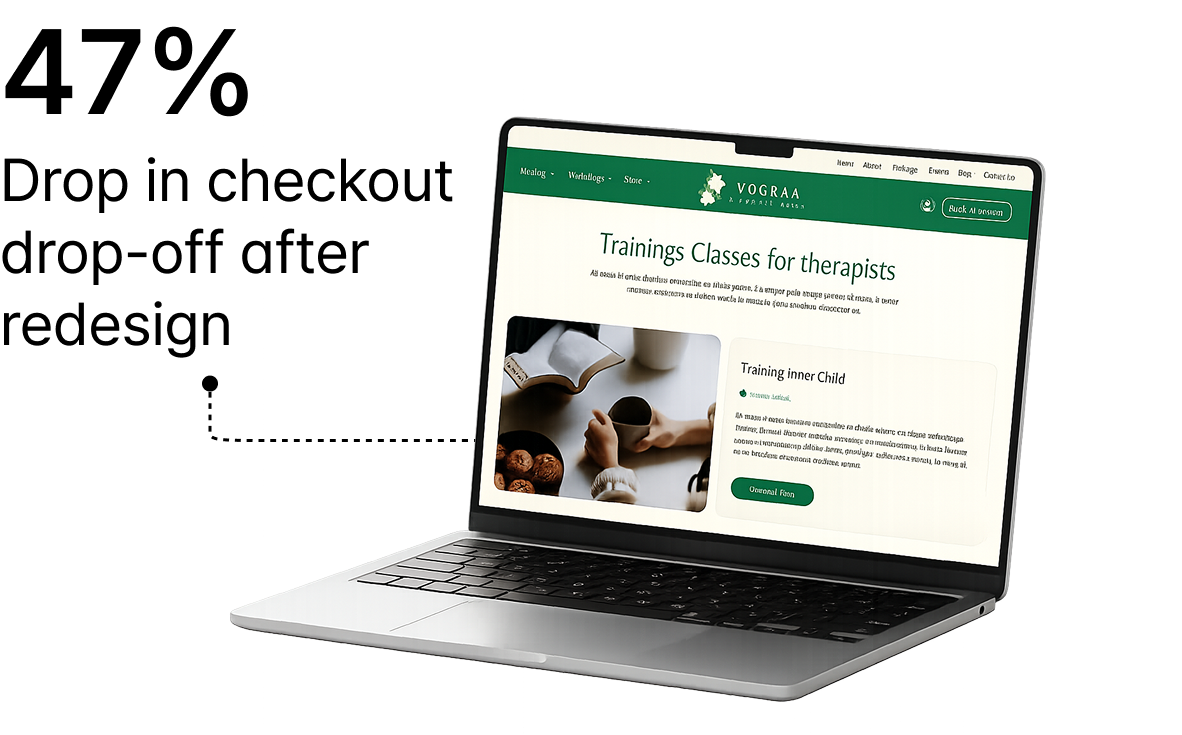
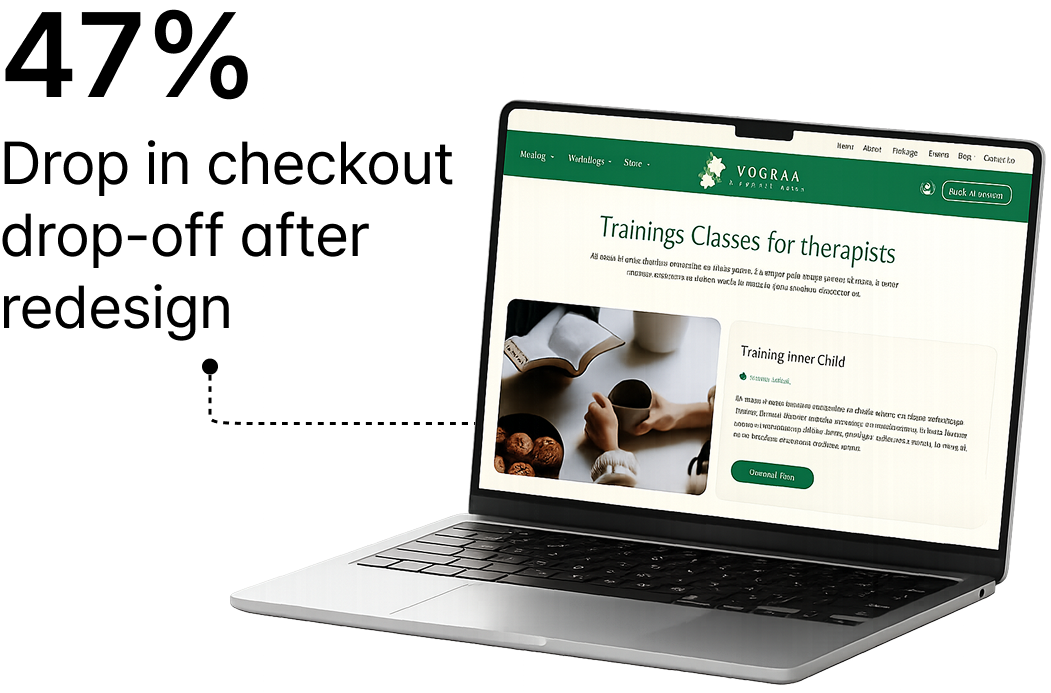
changes

diff --git a/src/app/(frontend)/uiux/_components/ProjectsGrid/ProjectsGrid.jsx b/src/app/(frontend)/uiux/_components/ProjectsGrid/ProjectsGrid.jsx
@@ -41,8 +41,8 @@ const projects = [
     src: one,
     title: 'Surge',
     // tags: 'Branding | Food',
-    tags: 'Checkout completion up from 31% to 50%',
-    description: 'UI/UX Design and Mobile Application Development crafted for White Mantis Dubai.',
+    tags: 'Order completion rate reached 50% within the first month of launch',
+    description: 'Crafting a seamless coffee-first journey that blends discovery, rewards, and everyday convenience.',
     popupImages: [
       { type: 'landscape', src: '/assets/images/projects/royal/first.png' },
       { type: 'double',    src: ['/assets/images/projects/royal/first22.webp', '/assets/images/projects/royal/first33.webp'] },
@@ -51,24 +51,11 @@ const projects = [
     ],
   },
   {
-    src: two,
-    title: 'Al-Huzaifa',
-    // tags: 'Branding | Lifestyle',
-    tags: 'Time-to-first-value cut from 12 min-5 min',
-    description: 'UI/UX Design and Mobile Application Development crafted for White Mantis Dubai.',
-    popupImages: [
-      { type: 'landscape', src: '/assets/images/projects/magic/secondqq.webp' },
-      { type: 'double',    src: ['/assets/images/projects/magic/secondqqq.webp', '/assets/images/projects/magic/secondqqqq.webp'] },
-      { type: 'double',    src: ['/assets/images/projects/magic/secondq.webp', '/assets/images/projects/magic/secondqqqqq.webp'] },
-      { type: 'landscape', src: '/assets/images/projects/magic/secondfinalq.webp' },
-    ],
-  },
-  {
     src: three,
     title: 'Plan B',
     // tags: 'Branding | Hospitality',
-    tags: '3× more form submissions in week one',
-    description: 'UI/UX Design and Mobile Application Development crafted for White Mantis Dubai.',
+    tags: 'Partner deals worth AED 2M+ traced back to the new site in 3 months',
+    description: 'Transforming bold ideas into engaging digital journeys designed to inspire action and connection.',
     popupImages: [
       { type: 'landscape', src: '/assets/images/projects/neelam/thirdIMG1.webp' },
       { type: 'double',    src: ['/assets/images/projects/neelam/thirdIMG2.webp', '/assets/images/projects/neelam/thirdIMG3.webp'] },
@@ -77,11 +64,24 @@ const projects = [
     ],
   },
   {
+    src: two,
+    title: 'Al-Huzaifa',
+    // tags: 'Branding | Lifestyle',
+    tags: 'Now the #1 source of new client inquiries, ahead of referrals',
+    description: 'Elevating luxury interiors through an immersive digital experience that reflects timeless sophistication.',
+    popupImages: [
+      { type: 'landscape', src: '/assets/images/projects/magic/secondqq.webp' },
+      { type: 'double',    src: ['/assets/images/projects/magic/secondqqq.webp', '/assets/images/projects/magic/secondqqqq.webp'] },
+      { type: 'double',    src: ['/assets/images/projects/magic/secondq.webp', '/assets/images/projects/magic/secondqqqqq.webp'] },
+      { type: 'landscape', src: '/assets/images/projects/magic/secondfinalq.webp' },
+    ],
+  },
+  {
     src: four,
-    title: 'ADND',
+    title: 'First Response',
     // tags: 'Branding | Education',
-    tags: '3× more form submissions in week once',
-    description: 'UI/UX Design and Mobile Application Development crafted for White Mantis Dubai.',
+    tags: 'Consultation bookings up 2x since the new homepage went live ',
+    description: 'Creating a compassionate healthcare platform that makes care accessible, trusted, and easy to navigate.',
     popupImages: [
       { type: 'landscape', src: '/assets/images/projects/pres/fourthONE.webp' },
       { type: 'double',    src: ['/assets/images/projects/pres/fourthTWO.webp', '/assets/images/projects/pres/fourthTHREE.webp'] },

diff --git a/src/app/(frontend)/uiux/_components/brands/brands.jsx b/src/app/(frontend)/uiux/_components/brands/brands.jsx
@@ -1,28 +1,12 @@
 import Image from "next/image";
 import styles from "./brands.module.css"
-import tata from "./tata.png"
-import alhuzifa from "./alhuzifa.png"
-import titan from "./titan.png"
-// import marriot from "./marriot.png"
-import marq1 from "./marqq1.png"
-import marq2 from "./marqq2.png"
-import marq3 from "./marqq3.png"
-import marq4 from "./marqq4.png"
-import marq5 from "./marqq5.png"
-import marq6 from "./marqq6.png"
-import marq7 from "./marqq7.png"
-import marq8 from "./marqq8.png"
-import marq9 from "./marqq9.png"
-import marq10 from "./marqq10.png"
 
+import tata2 from "./mono1.png"
+import marriot from "./mono2.png"
+import prestige from "./mono3.png"
+import silverCoin from "./mono4.png"
 
-import titan1 from "./titan1.png"
-import tata2 from "./tata2.png"
-import marriot from "./marriot.png"
-import prestige from "./prestige.png"
-import silverCoin from "./silverCoin.png"
-import swiggy from "./swiggy.png"
-import keshari from "./keshari.png"
+// import keshari from "./keshari.png"
 
 export default function Brand() {
     return (
@@ -38,18 +22,18 @@ export default function Brand() {
                         <span className={styles.divider} />
                         <Image src={tata2} alt="alhuzifa" />
                         <span className={styles.divider} /> */}
-                        <Image src={marriot} alt="titan" />
+                        <Image src={tata2} alt="titan" />
+                        <span className={styles.divider} />
+                        <Image src={marriot} alt="marriot" />
                         <span className={styles.divider} />
                         <Image src={prestige} alt="marriot" />
                         <span className={styles.divider} />
-                        <Image src={silverCoin} alt="marriot" />
-                        <span className={styles.divider} />
                         {/* <Image src={swiggy} alt="marriot" />
                         <span className={styles.divider} /> */}
-                         <Image src={keshari} alt="marriot" />
+                         <Image src={silverCoin} alt="marriot" />
                         {/* <span className={styles.divider} /> */}
                     </div>
-                    <div className={styles.LogoMarquee}>
+                    {/* <div className={styles.LogoMarquee}>
                         <div className={styles.LogoMarqueeTrack}>
                             <Image src={titan1} alt="titan" />
                             <Image src={tata2} alt="tata" />
@@ -66,7 +50,7 @@ export default function Brand() {
                             <Image src={swiggy} alt="swiggy" />
                             <Image src={keshari} alt="keshari" />
                         </div>
-                    </div>
+                    </div> */}
                 </div>
                 {/* <div className={styles.mid}>
                     <div className={styles.Heading}>

diff --git a/src/app/(frontend)/uiux/_components/ProjectsGrid/ProjectsGrid.module.css b/src/app/(frontend)/uiux/_components/ProjectsGrid/ProjectsGrid.module.css
@@ -186,11 +186,9 @@
   display: flex;
   justify-content: flex-end;
   padding: 0 2rem;
-  position: sticky;
+  position: absolute;
   top: 0;
-  width: 100%;
-  background-color: #fff;
-  border-radius: 2rem 2rem 0 0;
+  right: 0;
   z-index: 2;
 }
 
@@ -315,7 +313,7 @@
 .popupTwoImages .twoImage {
   width: 100%;
   height: auto;
-  border-radius: 1rem;
+  border-radius: 10px;
   object-fit: cover;
   display: block;
 }
@@ -401,7 +399,7 @@
     pointer-events: auto;
   }
   .workHeadContent {
-    gap: 5px;
+    gap: 10px;
   }
   .customCursor {
     display: none;
@@ -418,12 +416,13 @@
     pointer-events: auto;
   }
   .workInternalMain {
-    padding: 2rem 1.5rem;
+    padding: 4rem 1.5rem;
     max-width: 100%;
   }
   .popupContent p{
     font-weight:400;
-    font-size:12px;
+    font-size:16px;
+    margin-bottom:12px;
   }
   /* .workHeadContent{
     font-weight:700;
@@ -447,7 +446,6 @@
     border-radius: 1.25rem;
   }
   .workInternalHeader {
-    border-radius: 1.25rem 1.25rem 0 0;
     padding: 0 1rem;
   }
   .workHeadContent .workTitle,
@@ -464,7 +462,7 @@
   .closeButton {
     height: 2.25rem;
     width: 2.25rem;
-    margin: 0.75rem 0.5rem;
+    margin: 2rem 0.5rem;
   }
   .closeButton svg {
     width: 14px;
@@ -484,20 +482,21 @@
         row-gap: 30px;
     }
     .cardContent {
+      align-items: center;
         gap: 12px;
     }
     .card {
-        gap: 12px;
+        gap: 8px;
     }
     .cardContentleft {
-        gap: 4px;
+        gap: 2px;
     }
     .cardContentleft h3 {
         font-size: 18px;
         font-weight:500;
     }
     .cardContentleft p {
-        font-size: 14px;
+        font-size: 16px;
     }
     .cardContentleft {
         width: 80%;

diff --git a/src/app/(frontend)/uiux/_components/main/home.jsx b/src/app/(frontend)/uiux/_components/main/home.jsx
@@ -4,14 +4,11 @@ import { useEffect, useState } from "react"
 import styles from "./home.module.css"
 import ContactPopupCopy from "../ContactCopy/ContactPopupCopy"
 import Image from "next/image"
-import oil from "./oil.png"
-import icecream1 from "./icecream1.png"
 import besanFinal from "./thirdfinal.png"
 import iceCreamFinal from "./secondfinal.png"
 import oilMobile from "./firstfinal.png"
-import besan from "./besan.png"
-import besanArrow from "./besanArrow.png"
-import icecreamArrow from "./icecreamArrow.png"
+
+
 import everything from "./everything.png"
 export default function HomePage() {
     const [isOpen, setIsOpen] = useState(false)
@@ -45,7 +42,7 @@ export default function HomePage() {
                 <div className={styles.mainContainer}>
                     <div className={styles.top}>
                         <h3 className={styles.headingTop}>THE UAE'S TRUSTED PARTNER FOR UI/UX DESIGN</h3>
-                        <h1 className={styles.headingMain}>More Clicks.<br/> More Signups.<br/> Stronger conversion</h1>
+                        <h1 className={styles.headingMain}>More Clicks.<br /> More Signups.<br /> Stronger conversion</h1>
                         <h1 className={styles.headingMainItalic}>Guaranteed.</h1>
                     </div>
                 </div>
@@ -68,7 +65,8 @@ export default function HomePage() {
                             <h2 className={styles.txtpara}>More consumers tried the product off retail shelves.</h2>
                         </div>
                     </div> */}
-                    <div className={styles.mobCell1}>
+                    <div className={styles.mobCell1}
+                        style={{ marginLeft: "20px" }} >
                         <Image
                             src={oilMobile}
                             alt="oil"
@@ -85,7 +83,8 @@ export default function HomePage() {
                             
                         </div>
                     </div> */}
-                    <div className={`${styles.mobCell1} ${styles.right}`}>
+                    <div className={`${styles.mobCell1} ${styles.right}`}
+                        style={{ marginRight: "20px" }} >
                         <Image
                             src={iceCreamFinal}
                             alt="oil"
@@ -102,7 +101,8 @@ export default function HomePage() {
                             <h2 className={styles.txtpara}>Higher price point. Same product.</h2>
                         </div>
                     </div> */}
-                    <div className={`${styles.mobCell1} ${styles.left}`}>
+                    <div className={`${styles.mobCell1} ${styles.left}`}
+                        style={{ marginLeft: "20px" }} >
                         <Image
                             src={besanFinal}
                             alt="oil"
@@ -111,7 +111,7 @@ export default function HomePage() {
                 </div>
                 <div className={styles.bottom}>
                     <p className={styles.para}>
-                       We design interfaces that make customers click, sign up, and buy on your website, your app, and everywhere your users encounter your brand.
+                        We design interfaces that make customers click, sign up, and buy on your website, your app, and everywhere your users encounter your brand.
                     </p>
                     <div className={styles.Quote} onClick={() => setIsOpen(true)} style={{ cursor: 'pointer' }}>
                         <div className={styles.txt0}>

diff --git a/src/app/(frontend)/uiux/_components/brands/brands.module.css b/src/app/(frontend)/uiux/_components/brands/brands.module.css
@@ -29,11 +29,13 @@
     width: 100%;
     justify-content: center;
     gap: clamp(20px, 4vw, 70px);
+    align-items: center;
+    padding: 0 25px;
 }
 
 .Logos img {
     width: auto;
-    height: clamp(40px, 5vw, 65px);
+    /* height: clamp(40px, 5vw, 65px); */
 }
 
 .mid {
@@ -192,7 +194,7 @@
     .Logos img {
         height: clamp(25px, 14vw, 80px);
         width: auto;
-        max-width: clamp(45px, 14vw, 80px);
+        max-width: clamp(45px, 17vw, 80px);
         flex-shrink: 1;
         object-fit: contain;
     }

diff --git a/src/app/(frontend)/uiux/_components/white/white.module.css b/src/app/(frontend)/uiux/_components/white/white.module.css
@@ -44,7 +44,7 @@
 .row {
     display: flex;
     flex-direction: row;
-    align-items: center;
+    /* align-items: center; */
 }
 
 .num {
@@ -53,11 +53,13 @@
     font-weight: 700;
     font-family: var(--font-pretendard);
     flex-shrink: 0;
-    background: linear-gradient(#3d3d3d 0%, #ffffff 85%);
+    background: linear-gradient(#4d4d4d 0%, #fff 80%);
     -webkit-background-clip: text;
     background-clip: text;
     -webkit-text-fill-color: transparent;
     color: transparent;
+    position:relative;
+    bottom:6px;
 }
 
 .text {

diff --git a/src/app/(frontend)/uiux/_components/ContactCopy/ContactCopy.module.css b/src/app/(frontend)/uiux/_components/ContactCopy/ContactCopy.module.css
@@ -371,6 +371,11 @@
     border-radius: 83px;
     padding: 7.5px 10px 7.5px 18px;
     cursor: pointer;
+    transition: opacity 0.2s ease;
+}
+
+.ctaMuted {
+    opacity: 0.35;
 }
 
 .ctaText {

diff --git a/src/app/(frontend)/uiux/_components/ContactCopy/ContactPopupCopy.module.css b/src/app/(frontend)/uiux/_components/ContactCopy/ContactPopupCopy.module.css
@@ -193,6 +193,11 @@
   border-radius: 83px;
   padding: 7.5px 10px 7.5px 18px;
   cursor: pointer;
+  transition: opacity 0.2s ease;
+}
+
+.ctaMuted {
+  opacity: 0.35;
 }
 
 .cta:disabled {

diff --git a/src/app/(frontend)/uiux/_components/ContactCopy/ContactCopy.jsx b/src/app/(frontend)/uiux/_components/ContactCopy/ContactCopy.jsx
@@ -300,7 +300,7 @@ const Contact = () => {
                                 </div>
                                 {submitError && <span className={styles.errorMsg}>{submitError}</span>}
                                 <div className={styles.ctaRow}>
-                                    <button type="submit" className={styles.cta} disabled={submitting}>
+                                    <button type="submit" className={`${styles.cta} ${!formData.fullName.trim() || !formData.email.trim() ? styles.ctaMuted : ''}`} disabled={submitting}>
                                         <span className={styles.ctaText}>{submitting ? 'Sending…' : 'Request a Quote '}</span>
                                         <span className={styles.ctaArrow}>
                                             <svg width="15" height="15" viewBox="0 0 15 15" fill="none" xmlns="http://www.w3.org/2000/svg">

diff --git a/src/app/(frontend)/uiux/_components/ContactCopy/ContactPopupCopy.jsx b/src/app/(frontend)/uiux/_components/ContactCopy/ContactPopupCopy.jsx
@@ -252,7 +252,7 @@ router.push('/uiux/thank-you')
           </div>
           {submitError && <span className={styles.errorMsg}>{submitError}</span>}
           <div className={styles.ctaRow}>
-            <button type="submit" className={styles.cta} disabled={submitting}>
+            <button type="submit" className={`${styles.cta} ${!formData.fullName.trim() || !formData.email.trim() ? styles.ctaMuted : ''}`} disabled={submitting}>
               <span className={styles.ctaText}>
                 {submitting ? 'Sending…' : 'Request a Quote'}
               </span>

diff --git a/src/app/(frontend)/uiux/_components/StickyCta/StickyCta.jsx b/src/app/(frontend)/uiux/_components/StickyCta/StickyCta.jsx
@@ -20,7 +20,7 @@ export default function StickyCta() {
 
     return (
         <>
-        <div className={`${styles.stickyOuter}${!visible ? ` ${styles.hidden}` : ''}`}>
+        <div className={`${styles.stickyOuter}${(!visible || isOpen) ? ` ${styles.hidden}` : ''}`}>
             <div
                 className={styles.glassBorder}
                 style={{

diff --git a/src/app/(frontend)/uiux/_components/main/home.module.css b/src/app/(frontend)/uiux/_components/main/home.module.css
@@ -162,7 +162,7 @@
 /* Mobile */
 @media (max-width: 768px) {
     .main {
-        padding-top: 100px;
+        padding-top: 125px;
     }
 
     .headingMain {